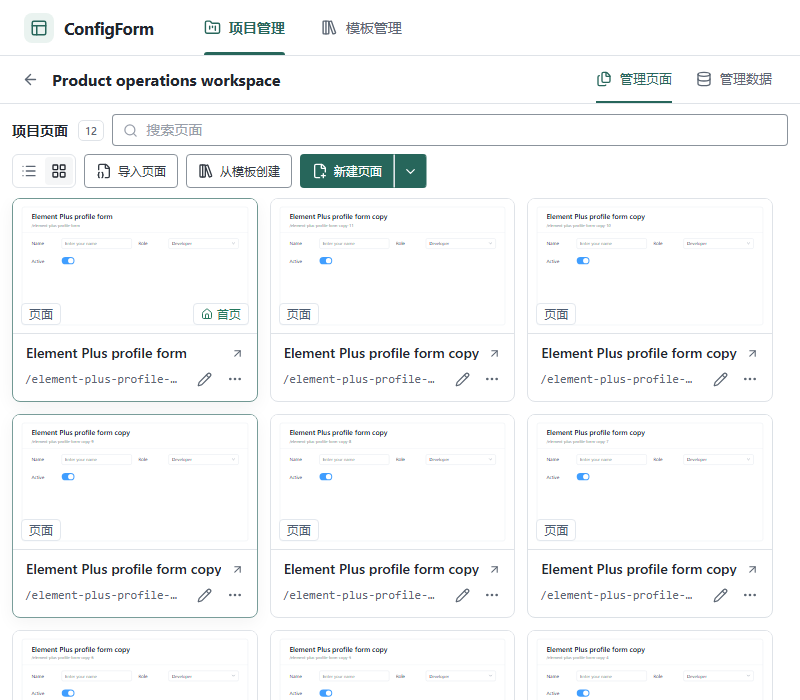
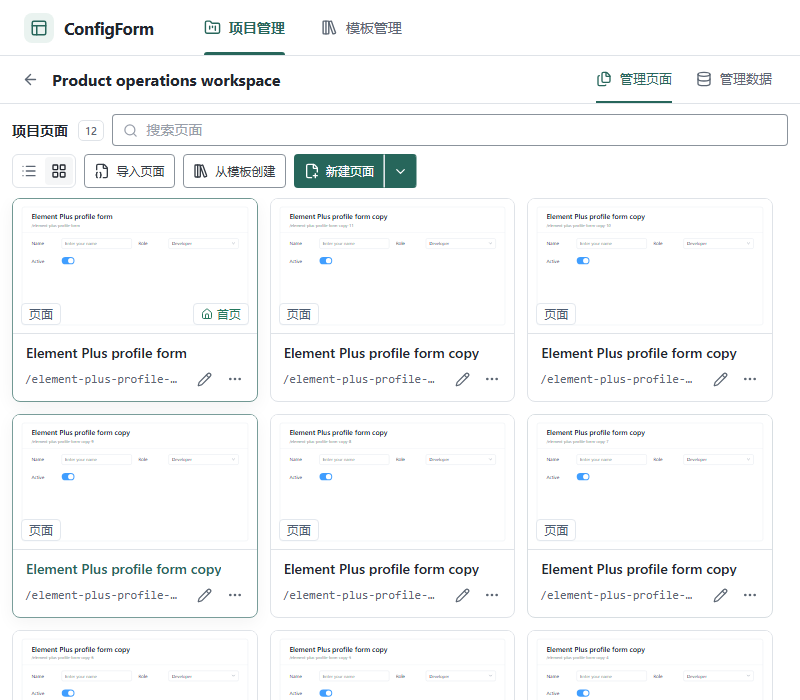
fix(workbench): open cards directly and remove arrow actions

Changed region(s): [[0.125, 0.21, 0.5312, 0.27], [0.0312, 0.81, 0.2812, 0.84]]

diff --git a/packages/ConfigForm/workbench/src/features/pages/components/SurfaceManager/style/index.css b/packages/ConfigForm/workbench/src/features/pages/components/SurfaceManager/style/index.css
@@ -163,6 +163,7 @@
   scrollbar-gutter: stable;
 }
 .page-manager__row {
+  position: relative;
   display: grid;
   min-width: 0;
   grid-template-rows: auto auto;
@@ -182,7 +183,7 @@
   box-shadow: 0 5px 18px rgb(0 0 0 / 5%);
 }
 
-.page-manager__preview-button {
+.page-manager__preview-frame {
   position: relative;
   display: block;
   width: 100%;
@@ -196,7 +197,6 @@
   border: 0;
   border-bottom: 1px solid var(--wb-separator);
   background: var(--wb-surface);
-  cursor: pointer;
 }
 .page-manager__preview {
   display: block;
@@ -241,6 +241,7 @@
   min-width: 0;
 }
 .page-manager__link.el-button {
+  position: static;
   width: 100%;
   height: auto;
   min-width: 0;
@@ -258,9 +259,22 @@
   justify-content: space-between;
   gap: 6px;
 }
-.page-manager__link.el-button svg {
-  flex: none;
-  color: var(--wb-muted);
+.page-manager__link.el-button::after {
+  position: absolute;
+  inset: 0;
+  border-radius: 8px;
+  cursor: pointer;
+  content: '';
+}
+.page-manager__link.el-button:disabled::after {
+  cursor: not-allowed;
+}
+.page-manager__link.el-button:focus-visible {
+  outline: none;
+}
+.page-manager__link.el-button:focus-visible::after {
+  outline: 2px solid var(--wb-focus);
+  outline-offset: -2px;
 }
 .page-manager__link-label {
   overflow: hidden;
@@ -298,6 +312,8 @@
 }
 
 .page-manager__actions {
+  position: relative;
+  z-index: 1;
   display: flex;
   min-height: 44px;
   padding: 6px 12px;
@@ -332,8 +348,6 @@
   margin-left: auto;
 }
 
-.page-manager__actions .page-manager__design-action { width: auto; padding: 0 8px; color: var(--wb-accent-text); font-size: 12px; }
-.page-manager__design-action :deep(> span) { gap: 5px; }
 .page-manager__home-marker { display: inline-flex; align-items: center; gap: 4px; color: var(--wb-positive); }
 .page-manager__table[data-view='cards'] .page-manager__name-cell {
   grid-column: 1 / -1;
@@ -346,8 +360,7 @@
   padding-right: 64px;
 }
 .page-manager__table[data-view='cards'] .page-manager__home-marker,
-.page-manager__table[data-view='cards'] .page-manager__kind,
-.page-manager__table[data-view='cards'] .page-manager__design-action {
+.page-manager__table[data-view='cards'] .page-manager__kind {
   display: none;
 }
 .page-manager__table[data-view='cards'] .page-manager__actions {
@@ -362,15 +375,15 @@
   border: 0;
   background: transparent;
 }
-.page-manager__row :deep(.surface-presentation-editor) { grid-column: 1 / -1; }
+.page-manager__row :deep(.surface-presentation-editor) { position: relative; z-index: 1; grid-column: 1 / -1; }
 .page-manager__table[data-view='list'] { grid-template-columns: minmax(0, 1fr); gap: 0; }
 .page-manager__table[data-view='list'] .page-manager__row { grid-template-columns: minmax(0, 1fr) auto; grid-template-rows: auto; border: 0; border-bottom: 1px solid var(--wb-separator); border-radius: 0; min-height: 76px; align-items: center; }
 .page-manager__table[data-view='list'] .page-manager__row:hover { box-shadow: none; background: var(--wb-hover); }
-.page-manager__table[data-view='list'] .page-manager__preview-button { display: none; }
+.page-manager__table[data-view='list'] .page-manager__preview-frame { display: none; }
+.page-manager__table[data-view='list'] .page-manager__link.el-button::after { border-radius: 0; }
 .page-manager__table[data-view='list'] .page-manager__name-cell { padding: 12px; }
 .page-manager__table[data-view='list'] .page-manager__actions { border: 0; background: transparent; }
 @media (max-width: 480px) {
-  .page-manager__table[data-view='list'] .page-manager__design-action { display: none; }
   .page-manager__list-title { font-size: 13px; }
 }
 

diff --git a/packages/ConfigForm/workbench/src/features/pages/components/SurfaceManager/index.vue b/packages/ConfigForm/workbench/src/features/pages/components/SurfaceManager/index.vue
@@ -4,7 +4,6 @@ import {
   ArrowDown,
   ArrowLeft,
   ArrowUp,
-  ArrowUpRight,
   Check,
   ChevronDown,
   Code2,
@@ -280,11 +279,11 @@ function runPageAction(command: string, surfaceId: string): void {
         role="listitem"
         @keydown.esc="cancelEdit"
       >
-        <button type="button" class="page-manager__preview-button" :disabled="busy" :aria-label="locale.t('pageManager.openAria', 'Open {name} in the designer', { name: page.name })" @click="emit('openPage', page.id)">
+        <div class="page-manager__preview-frame">
           <img class="page-manager__preview" :src="previewImage(page)" alt="">
           <span class="page-manager__preview-kind" :data-kind="page.kind">{{ surfaceKindLabel(page.kind) }}</span>
           <span v-if="project.homeSurfaceId === page.id" class="page-manager__preview-home"><Home :size="12" aria-hidden="true" />{{ locale.t('pageManager.home', 'Home page') }}</span>
-        </button>
+        </div>
         <div class="page-manager__name-cell">
           <div class="page-manager__name-content">
             <span class="sr-only">{{ locale.t('pageManager.pageName', 'Page name') }}</span>
@@ -316,13 +315,12 @@ function runPageAction(command: string, surfaceId: string): void {
               link
               type="primary"
               class="page-manager__link"
-              :title="locale.t('pageManager.openAria', 'Open {name} in the designer', { name: page.name })"
+              :title="page.kind === 'page' ? `${page.name} · ${page.route}` : page.name"
               :aria-label="locale.t('pageManager.openAria', 'Open {name} in the designer', { name: page.name })"
               :disabled="busy"
               @click="emit('openPage', page.id)"
             >
               <span class="page-manager__link-label">{{ page.name }}</span>
-              <ArrowUpRight :size="13" aria-hidden="true" />
             </ElButton>
             <div class="page-manager__meta">
               <span v-if="project.homeSurfaceId === page.id" class="page-manager__home-marker"><Home :size="12" aria-hidden="true" />{{ locale.t('pageManager.home', 'Home page') }}</span><span class="page-manager__kind"><Files :size="12" aria-hidden="true" />{{ surfaceKindLabel(page.kind) }}</span>
@@ -331,9 +329,6 @@ function runPageAction(command: string, surfaceId: string): void {
           </div>
         </div>
         <footer class="page-manager__actions">
-          <ElButton class="page-manager__design-action" native-type="button" text :disabled="busy" @click="emit('openPage', page.id)">
-            <ArrowUpRight :size="15" aria-hidden="true" />{{ locale.t('pageManager.design', 'Open design') }}
-          </ElButton>
           <ElButton v-if="editingId !== page.id" native-type="button" text circle :title="locale.t('pageManager.edit', 'Edit page')" :aria-label="locale.t('pageManager.editAria', 'Edit {name}', { name: page.name })" :disabled="busy" @click="beginEdit(page.id)">
             <Pencil :size="15" aria-hidden="true" />
           </ElButton>

diff --git a/packages/ConfigForm/workbench/e2e/management-layout.spec.ts b/packages/ConfigForm/workbench/e2e/management-layout.spec.ts
@@ -264,8 +264,11 @@ async function createReviewDataset(page: Page): Promise<void> {
 test('remembers manager display preferences and keeps the current search when switching views', async ({ page }) => {
   await createManagementProject(page)
   await page.locator('[data-create-trigger="page-manager-new-surface"]').click()
+  await expect(page.getByRole('region', { name: 'Design editor', exact: true })).toBeVisible()
+  await expect(page.locator('.revision-state')).toContainText(/Saved|Autosaved/, { timeout: 20_000 })
   await openPageManagement(page)
   const pages = page.locator('.page-manager')
+  const pagesUrl = page.url()
   const pageName = (await pages.locator('.page-manager__link-label').textContent())!.trim()
   await pages.getByRole('searchbox', { name: 'Search pages', exact: true }).fill(pageName)
   await pages.getByRole('button', { name: 'Card view', exact: true }).click()
@@ -273,8 +276,18 @@ test('remembers manager display preferences and keeps the current search when sw
   await expect(pages.getByRole('searchbox', { name: 'Search pages', exact: true })).toHaveValue(pageName)
   await page.reload()
   await expect(pages.getByRole('button', { name: 'Card view', exact: true })).toHaveAttribute('aria-pressed', 'true')
+  const card = pages.getByRole('listitem').first()
+  const cardBounds = (await card.boundingBox())!
+  await card.click({ position: { x: 18, y: cardBounds.height - 18 } })
+  await expect(page.getByRole('region', { name: 'Design editor', exact: true })).toBeVisible()
+  await page.goto(pagesUrl)
   await pages.getByRole('button', { name: 'List view', exact: true }).click()
   await expect(pages.locator('.page-manager__preview')).not.toBeVisible()
+  const row = pages.getByRole('listitem').first()
+  const rowBounds = (await row.boundingBox())!
+  await row.click({ position: { x: 18, y: rowBounds.height - 18 } })
+  await expect(page.getByRole('region', { name: 'Design editor', exact: true })).toBeVisible()
+  await page.goto(pagesUrl)
 
   await page.getByRole('button', { name: 'Back to projects', exact: true }).click()
   const projects = page.locator('.project-manager')

diff --git a/packages/ConfigForm/workbench/src/features/projects/style/index.css b/packages/ConfigForm/workbench/src/features/projects/style/index.css
@@ -107,14 +107,13 @@
 .project-manager__list[data-view='list'] .project-row:hover { background: var(--wb-hover); box-shadow: none; }
 .project-manager__list[data-view='list'] .project-card__main { display: block; }
 .project-manager__list[data-view='list'] .project-card__preview { display: none; }
-.project-manager__list[data-view='list'] .project-card__body { grid-template-columns: minmax(180px, 1fr) 180px minmax(240px, auto) auto; align-items: center; gap: 16px; padding: 16px 12px; }
+.project-manager__list[data-view='list'] .project-card__body { grid-template-columns: minmax(180px, 1fr) 180px minmax(240px, auto); align-items: center; gap: 16px; padding: 16px 12px; }
 .project-manager__list[data-view='list'] .project-card__title-row { align-items: center; justify-content: flex-start; }
 .project-manager__list[data-view='list'] .project-card__title-row strong { display: block; font-size: 14px; white-space: nowrap; text-overflow: ellipsis; }
 .project-manager__list[data-view='list'] .project-card__open-state { padding: 0; }
 .project-manager__list[data-view='list'] .project-card__footer { border: 0; background: transparent; }
 @media (max-width: 1200px) {
   .project-manager__list[data-view='list'] .project-card__body { grid-template-columns: minmax(150px, 1fr) 170px auto; }
-  .project-manager__list[data-view='list'] .project-card__open-state { display: none; }
 }
 @media (max-width: 900px) {
   .project-manager__list[data-view='list'] .project-card__body { grid-template-columns: minmax(0, 1fr); gap: 6px; padding: 12px; }
@@ -144,6 +143,7 @@
 }
 
 .project-card__main {
+  position: relative;
   display: grid;
   min-width: 0;
   min-height: 0;
@@ -288,10 +288,14 @@
   font-size: 12px;
 }
 .project-card__open-state {
+  position: absolute;
+  inset: 0;
   display: flex;
   align-items: center;
+  justify-content: center;
   gap: 6px;
-  padding-top: 6px;
+  padding: 12px;
+  background: color-mix(in srgb, var(--wb-surface) 94%, transparent);
   color: var(--wb-accent-text);
   font-size: 13px;
   font-weight: 600;

diff --git a/packages/ConfigForm/workbench/e2e/template-management.spec.ts b/packages/ConfigForm/workbench/e2e/template-management.spec.ts
@@ -245,7 +245,8 @@ test('walks the project, page, and design hierarchy through the URLs', async ({ 
   await expect(pages).toBeVisible()
   await expect(page).toHaveURL(new RegExp(`#/projects/${projectId}/pages$`))
 
-  await pages.getByRole('button', { name: /^Open .* in the designer$/ }).first().click()
+  await pages.getByRole('button', { name: /^Open .* in the designer$/ }).first().focus()
+  await page.keyboard.press('Enter')
   await expect(page.getByRole('region', { name: 'Design editor' })).toBeVisible()
   await expect(page).toHaveURL(new RegExp(`#/projects/${projectId}/pages/[^/]+/design$`))
 
@@ -340,7 +341,7 @@ test('keeps page cards compact and their previews, names, and actions usable acr
         competingScrolls,
         visibleCards: cards.filter(card => card.getBoundingClientRect().bottom <= innerHeight).length,
         cards: cards.map((card, index) => {
-          const preview = card.querySelector('.page-manager__preview-button')!.getBoundingClientRect()
+          const preview = card.querySelector('.page-manager__preview-frame')!.getBoundingClientRect()
           const name = card.querySelector('.page-manager__name-cell')!.getBoundingClientRect()
           const title = card.querySelector('.page-manager__link')!.getBoundingClientRect()
           const route = card.querySelector('.page-manager__meta code')!.getBoundingClientRect()
@@ -388,7 +389,7 @@ test('keeps page cards compact and their previews, names, and actions usable acr
     await expect(lastCard.locator('.page-manager__link-label')).toHaveText(name)
   }
 
-  await cards.last().locator('.page-manager__preview-button').click()
+  await cards.last().click({ position: { x: 20, y: 20 } })
   await expect(page.getByRole('region', { name: 'Design editor' })).toBeVisible()
 })
 

diff --git a/packages/ConfigForm/workbench/src/features/projects/index.vue b/packages/ConfigForm/workbench/src/features/projects/index.vue
@@ -3,7 +3,6 @@ import type { ProjectSummary } from '@moluoxixi/config-form-model'
 import type { UploadFile } from 'element-plus'
 import type { ProjectImageInput, ProjectManagerEmits, ProjectManagerProps } from './types'
 import {
-  ArrowUpRight,
   Code2,
   Copy,
   Database,
@@ -289,10 +288,9 @@ async function uploadProjectImage(project: ProjectSummary, uploadFile: UploadFil
                 <span><Database :size="13" aria-hidden="true" />{{ project.datasetCount }} {{ locale.t('projects.datasets', 'datasets') }}</span>
                 <span><Image :size="13" aria-hidden="true" />{{ project.resourceCount }} {{ locale.t('projects.resources', 'resources') }}</span>
               </span>
-              <span class="project-card__open-state" :role="openingId === project.id ? 'status' : undefined">
-                <LoaderCircle v-if="openingId === project.id" :size="15" class="is-loading" aria-hidden="true" />
-                {{ openingId === project.id ? locale.t('projects.opening', 'Opening…') : locale.t('projects.open', 'Open project') }}
-                <ArrowUpRight v-if="openingId !== project.id" :size="15" aria-hidden="true" />
+              <span v-if="openingId === project.id" class="project-card__open-state" role="status">
+                <LoaderCircle :size="15" class="is-loading" aria-hidden="true" />
+                {{ locale.t('projects.opening', 'Opening…') }}
               </span>
             </span>
           </button>

diff --git a/packages/ConfigForm/workbench/e2e/studio.spec.ts b/packages/ConfigForm/workbench/e2e/studio.spec.ts
@@ -263,7 +263,8 @@ test('Projects guide the first visit and let search recover without losing the p
   await page.getByRole('combobox', { name: 'Sort projects', exact: true }).press('ArrowDown')
   await page.getByRole('option', { name: 'Project name', exact: true }).click()
   await expect(page.locator('.project-manager__sort').getByText('Project name', { exact: true })).toBeVisible()
-  await expect(page.locator('.project-card__open-state')).toContainText('Open project')
+  await expect(page.locator('[data-project-open]').first()).toBeEnabled()
+  await expect(page.locator('.project-card__open-state')).toHaveCount(0)
   expect((await new AxeBuilder({ page }).withTags(['wcag2a', 'wcag2aa', 'wcag21a', 'wcag21aa']).analyze()).violations).toEqual([])
   await page.setViewportSize({ width: 390, height: 844 })
   await expect(page.locator('.project-manager__sort')).toBeVisible()

diff --git a/packages/ConfigForm/review/ui-layout-implementation-2026-10-12/README.md b/packages/ConfigForm/review/ui-layout-implementation-2026-10-12/README.md
@@ -6,7 +6,7 @@
 
 | 区域       | 已实现的行为                                                                                                                             | 1366×768 实测变化                                                              |
 | ---------- | ---------------------------------------------------------------------------------------------------------------------------------------- | ------------------------------------------------------------------------------ |
-| 项目与页面 | 紧凑列表、卡片切换；页面突出打开设计和重命名，复制、导出、移动和删除集中在更多菜单；删除仍需确认                                         | 项目列表行约 78px、页面列表行约 76px                                           |
+| 项目与页面 | 紧凑列表、卡片切换；点击卡片或列表行进入，编辑图标独立操作；复制、导出、移动和删除集中在更多菜单；删除仍需确认                           | 项目列表行约 78px、页面列表行约 76px                                           |
 | 模板管理   | 根据可用宽度自动排列卡片，描述压缩为一行，提供列表视图                                                                                   | 卡片约 409px → 289px；桌面 4 列，1920px 窗口 6 列                              |
 | 从模板创建 | 合并外层标题、类型选择和关闭操作；直接显示页面、弹窗或抽屉 UI，底部保留创建动作；正常模板不再重复提示可用性                              | 预览区约 314px → 543px                                                         |
 | 设计器     | 属性默认收起，选中节点后展开；新增专注画布并恢复原有面板状态；记住面板布局；保留物料面板宽度、拖宽和滚动能力                             | 无选择时画布获得原先属性面板占用的空间                                         |
@@ -40,7 +40,7 @@
 
 创建弹窗去除 Element Plus 默认的 50px 底部外边距，防止手机和较矮窗口出现额外外层滚动。回归检查同时断言外层滚动高度与滚动位置均为零，覆盖 1440×900、1366×768、1280×540、900×900、390×844、320×568。
 
-页面卡片进一步压缩为约 207–209px 高，保留完整预览。名称、路由、重命名和更多操作合并到紧凑的信息区，类型和首页标记保留在预览上；名称与预览均可打开设计器。路由截断后可通过提示查看全文，触屏下的卡片操作使用 44px 点击区域。列表仍作为默认显示方式，切换保留搜索并分别记住各管理入口的偏好。
+页面卡片进一步压缩为约 207–209px 高，保留完整预览。名称、路由、重命名和更多操作合并到紧凑的信息区，类型和首页标记保留在预览上；点击预览、信息和空白区域均可打开设计器。路由截断后可通过提示查看全文，触屏下的卡片操作使用 44px 点击区域。列表仍作为默认显示方式，切换保留搜索并分别记住各管理入口的偏好。
 
 使用 12 个页面实测：
 
@@ -57,3 +57,9 @@
 本次卡片迭代的页面管理、预览和语言单元测试 14 项通过，管理布局与显示偏好 11 项浏览器回归通过；弹层样式修复后，卡片密度、显示偏好与弹层尺寸保存的 3 项定向回归通过。工作台类型检查、ESLint、构建及其三个产物校验通过。
 
 全仓类型检查 74 个任务通过，工作台类型检查、ESLint、工作台构建及其 Element Plus、Monaco、Tailwind 产物校验通过。架构测试 26 项和架构 CLI 检查通过；本机 Windows 的架构 CLI 子进程耗时超过默认 5 秒，因此复跑时仅通过命令行将测试超时设为 30 秒，仓库测试配置保持原值。
+
+卡片导航去除名称后的跳转箭头和重复的“打开设计”按钮。每张页面卡片、列表行保留一个主入口，点击区域覆盖整个条目；编辑图标、更多菜单和弹层样式编辑独立操作。重命名期间停止条目导航，避免输入操作引发跳转。键盘使用 Tab 定位、Enter 或 Space 进入，页面卡片的焦点描边覆盖整张卡片。项目卡片也移除重复的打开提示，仅在加载时显示“打开中”，保持布局稳定。
+
+本次导航调整的页面与项目管理单元测试 11 项、定向交互场景 5 项及模板视觉回归 4 项通过，工作台类型检查、全仓 lint、工作台构建及三个产物校验通过。独立浏览器审查覆盖中文混排卡片、弹层样式、320px 触屏、项目卡片和列表；WCAG A/AA 检查均无违规，并验证 Space 进入、整卡焦点描边和触屏信息区点击进入。视图偏好回归先等待新页面自动保存再刷新，避免测试在保存完成前重新加载项目。
+
+补充截图：[项目卡片](./screenshots/projects-cards-1366.png)、[整卡键盘焦点](./screenshots/pages-card-keyboard-focus-1366.png)。页面列表、紧凑卡片、弹层样式与触屏截图同步更新。
